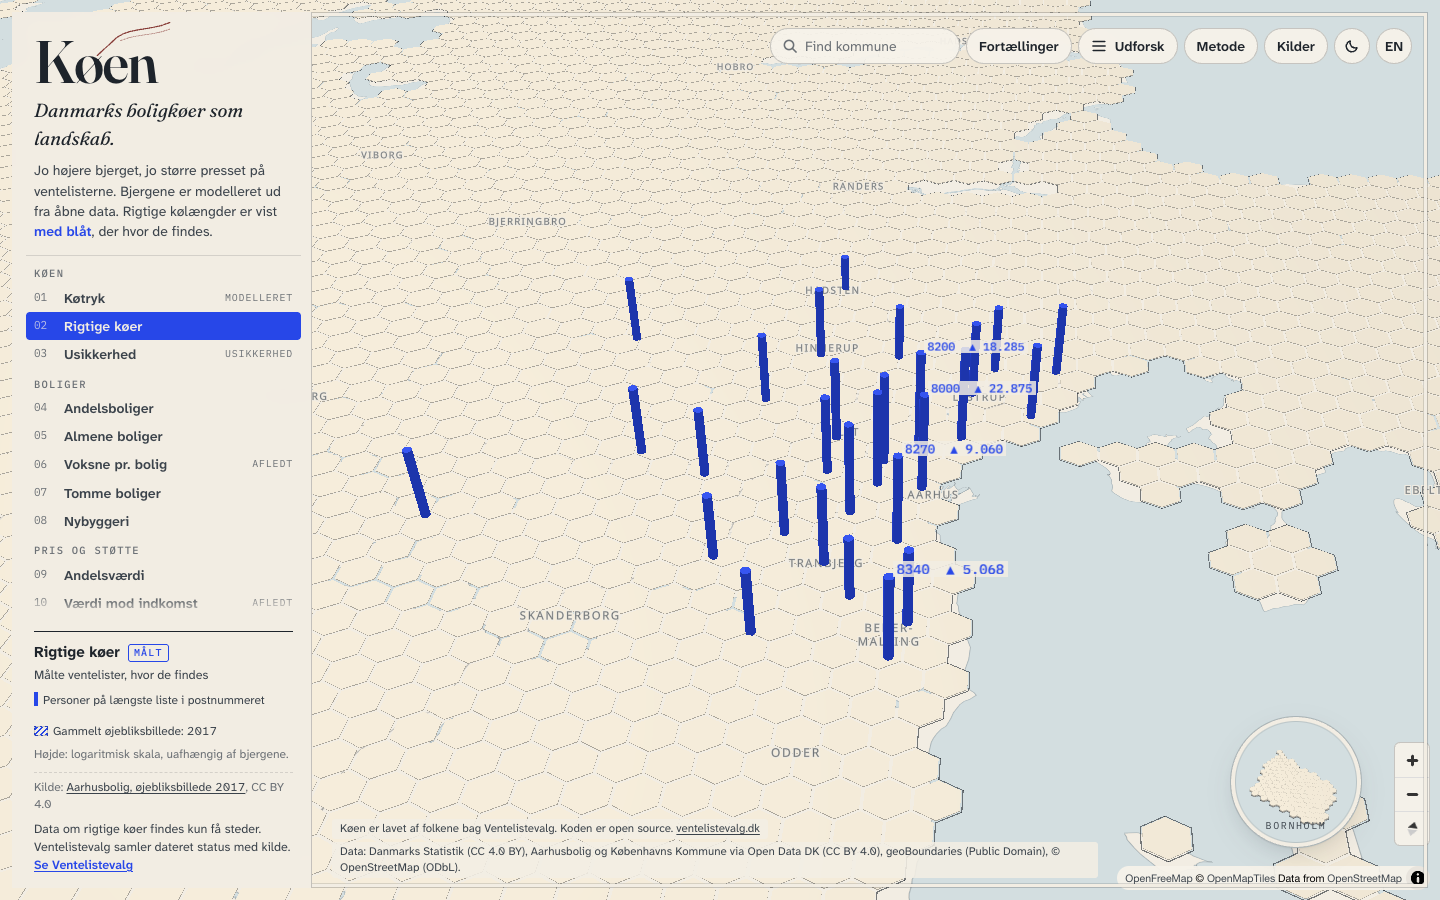
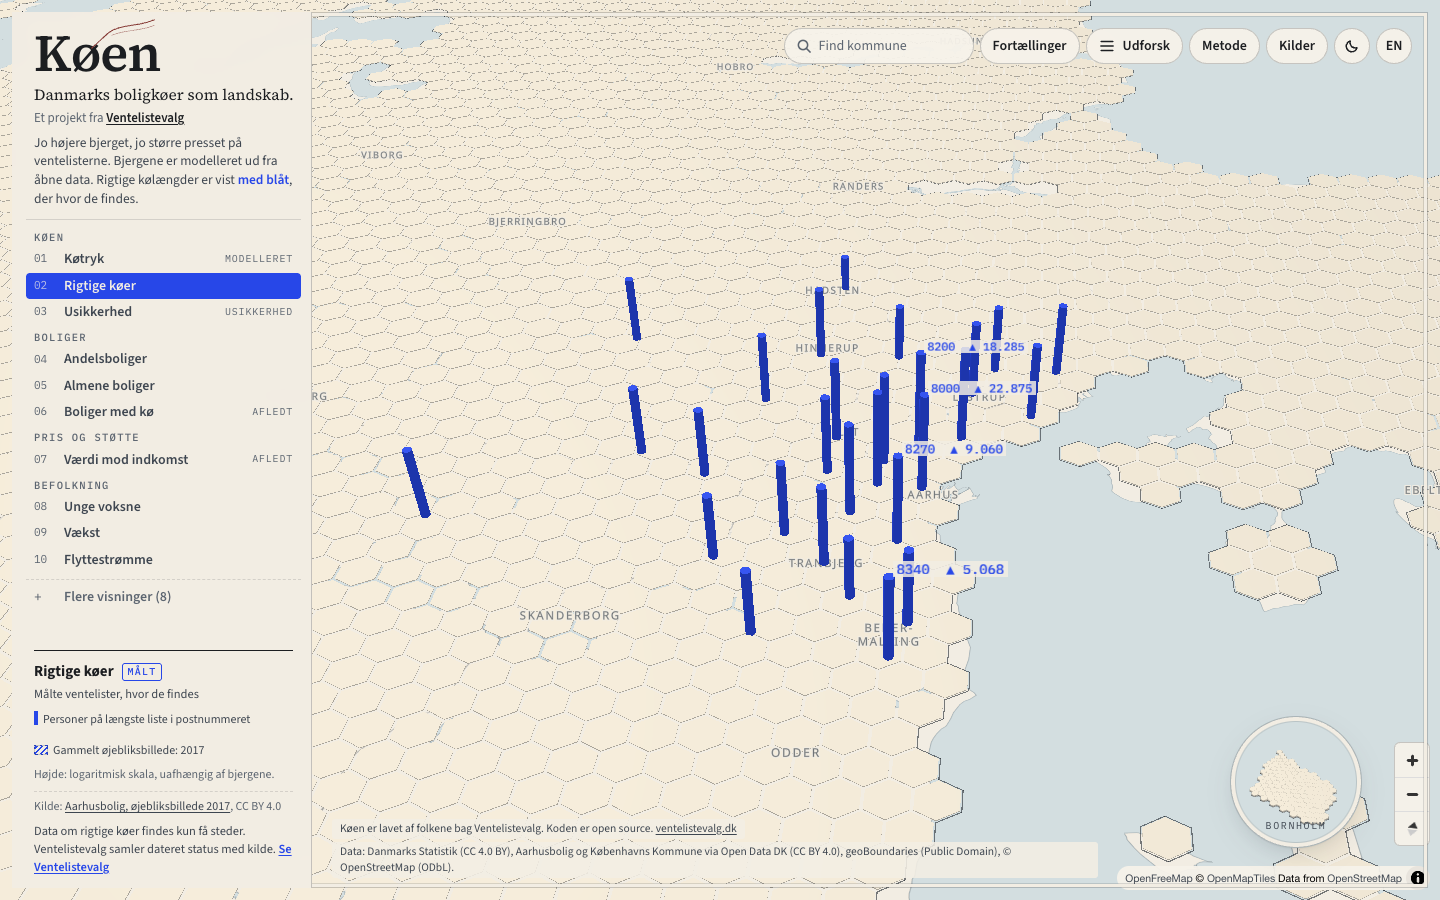
Explorer defaults to B1 vs P2; retake all screenshots, add 14 to 16

diff --git a/site/src/state.ts b/site/src/state.ts
@@ -1,4 +1,4 @@
-// App state with permalink sync: #mode=koetryk&k=0101&x=D1&y=P1&w=25,15,10,15,15,10,10&e=table&l=en
+// App state with permalink sync: #mode=koetryk&k=0101&x=B1&y=P2&w=30,20,10,10,10,10,10&e=table&l=en
 export interface State {
   mode: string;
   alt: boolean;
@@ -32,13 +32,13 @@ export function initState(ids: string[], weights: Record<string, number>): State
     k: null,
     hover: null,
     brushed: new Set(),
-    x: "D1",
-    y: "P1",
+    x: "B1",
+    y: "P2",
     w: { ...defaultW },
     explorer: "",
     lang: "da",
     theme: matchMedia("(prefers-color-scheme: dark)").matches ? "night" : "day",
-    cols: ["D1", "P1", "D2", "S1"],
+    cols: ["B1", "P2", "D4", "D2"],
     sort: ["koetryk", -1],
     cam: "",
   };
@@ -109,7 +109,7 @@ export function permalink(): string {
   p.set("mode", state.mode);
   if (state.alt) p.set("alt", "1");
   if (state.k) p.set("k", state.k);
-  if (state.x !== "D1" || state.y !== "P1" || state.explorer === "scatter") {
+  if (state.x !== "B1" || state.y !== "P2" || state.explorer === "scatter") {
     p.set("x", state.x);
     p.set("y", state.y);
   }
